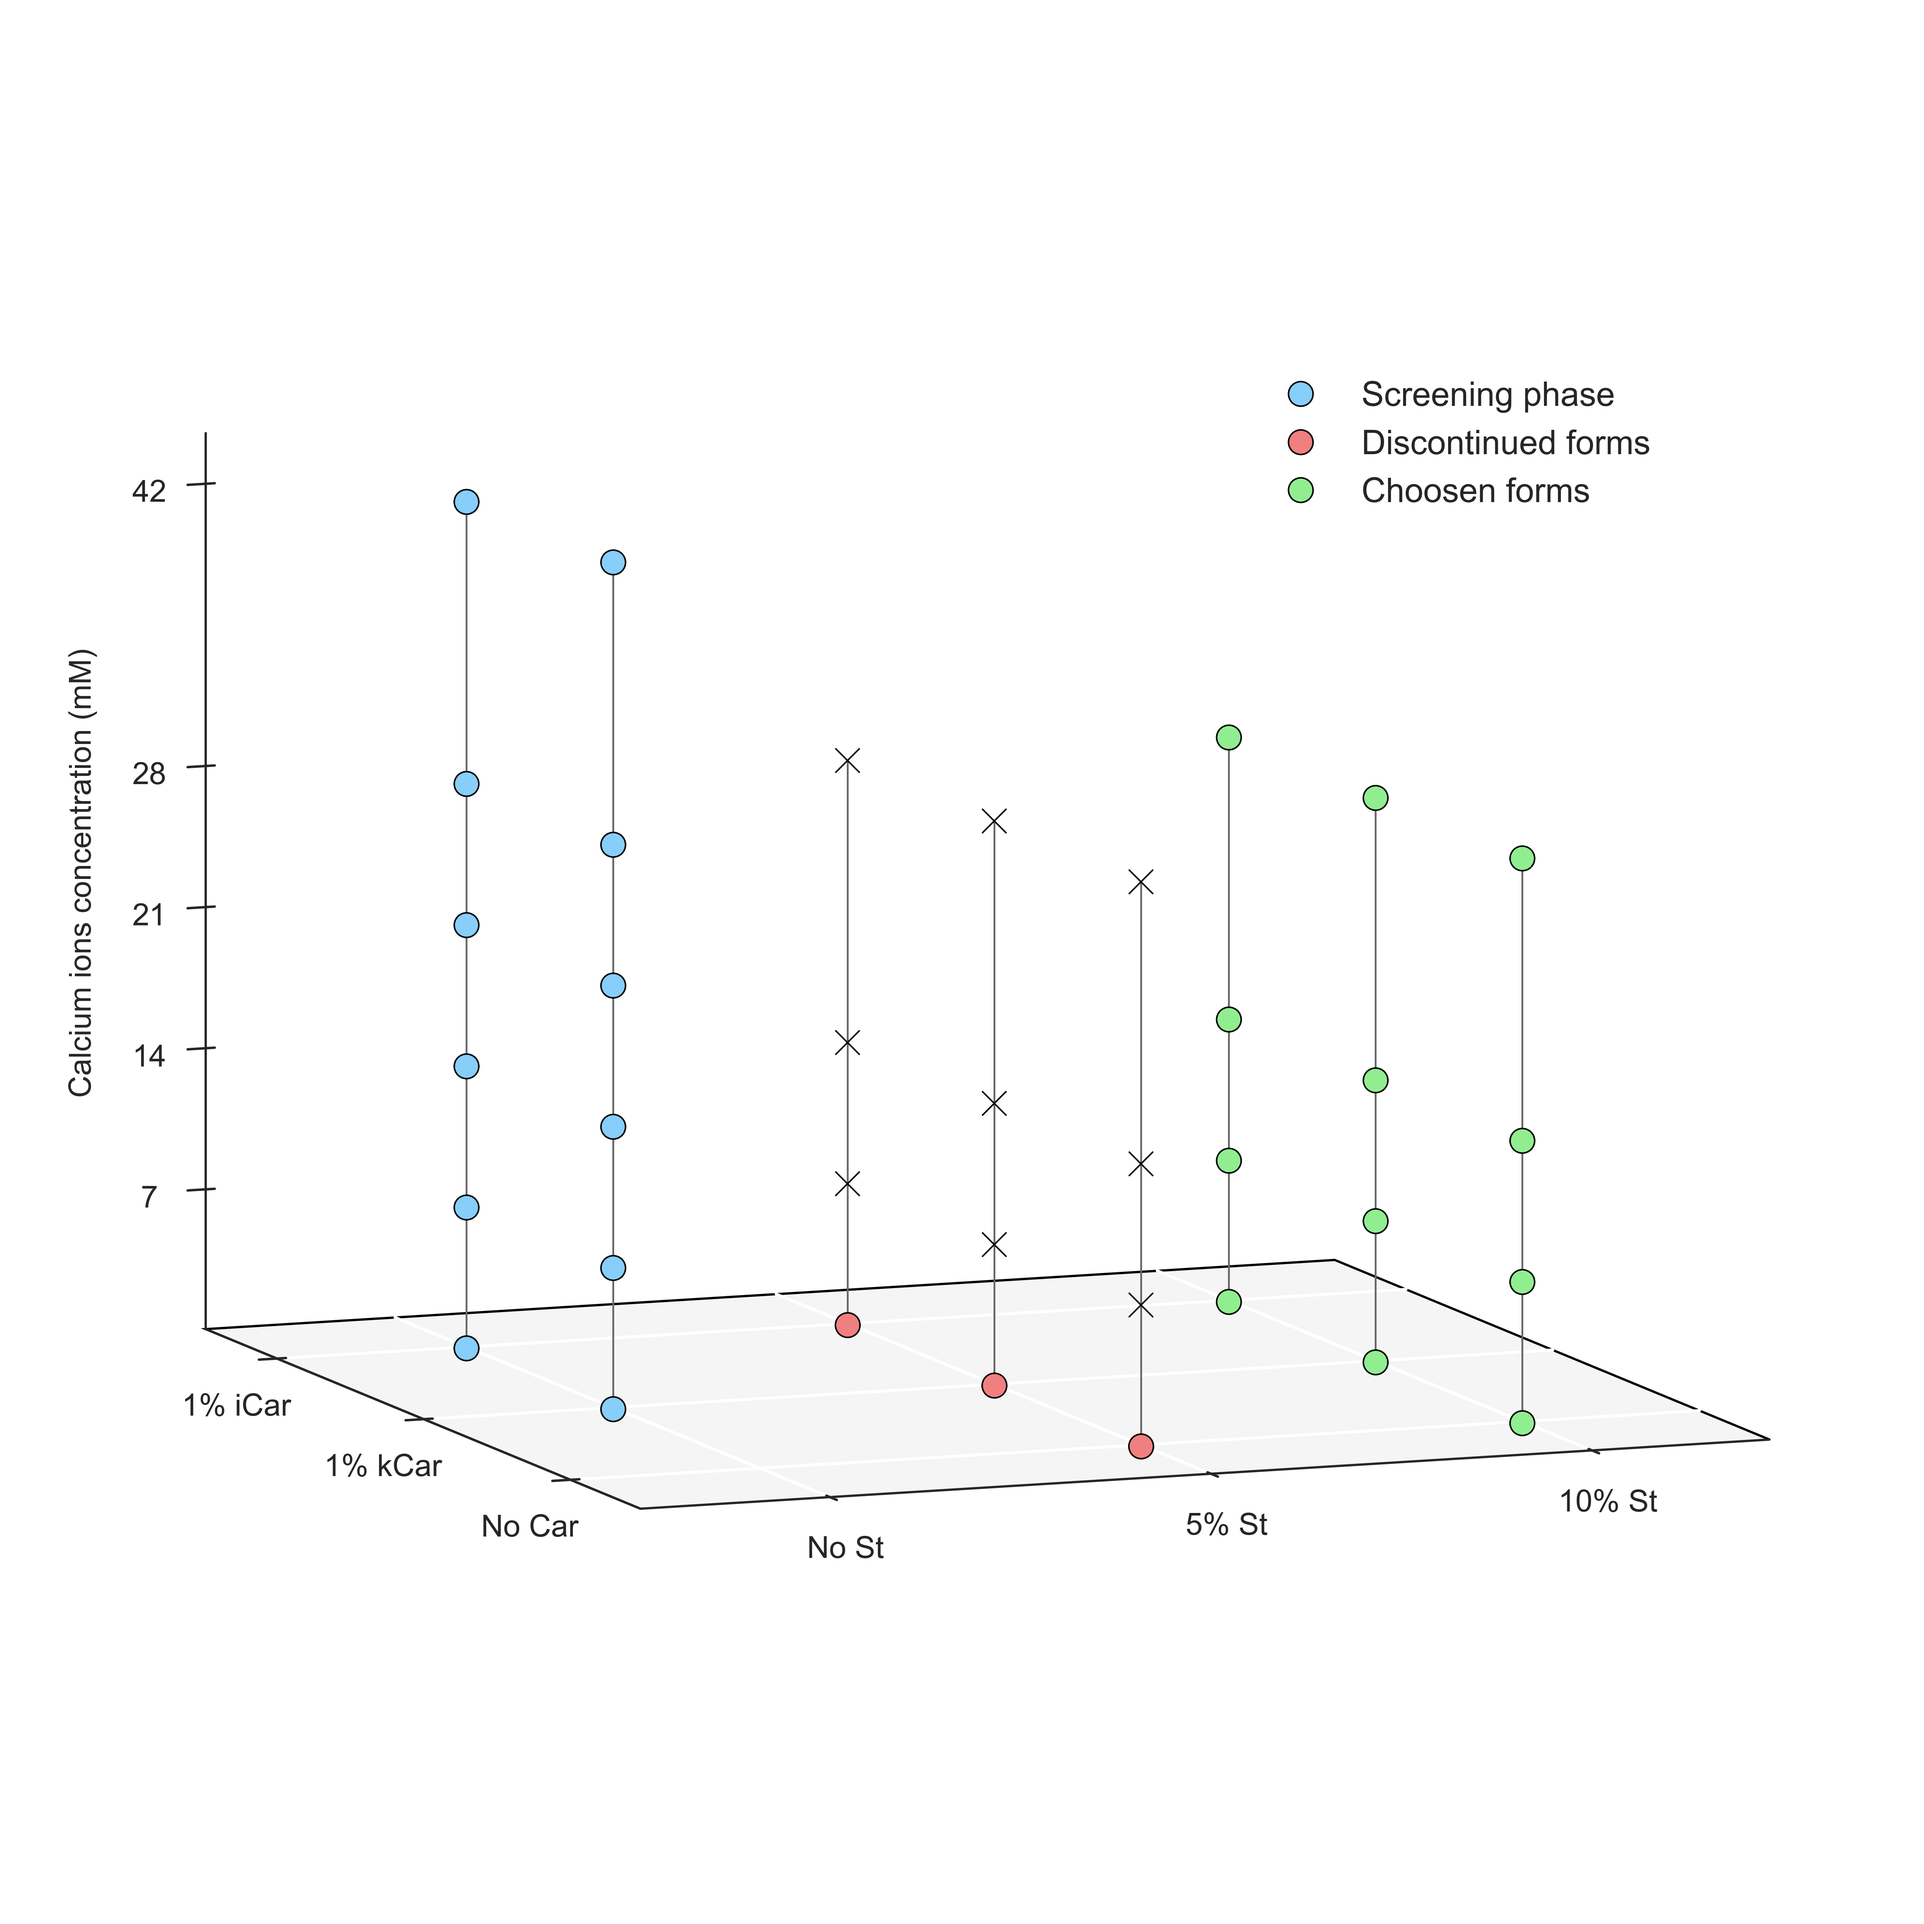
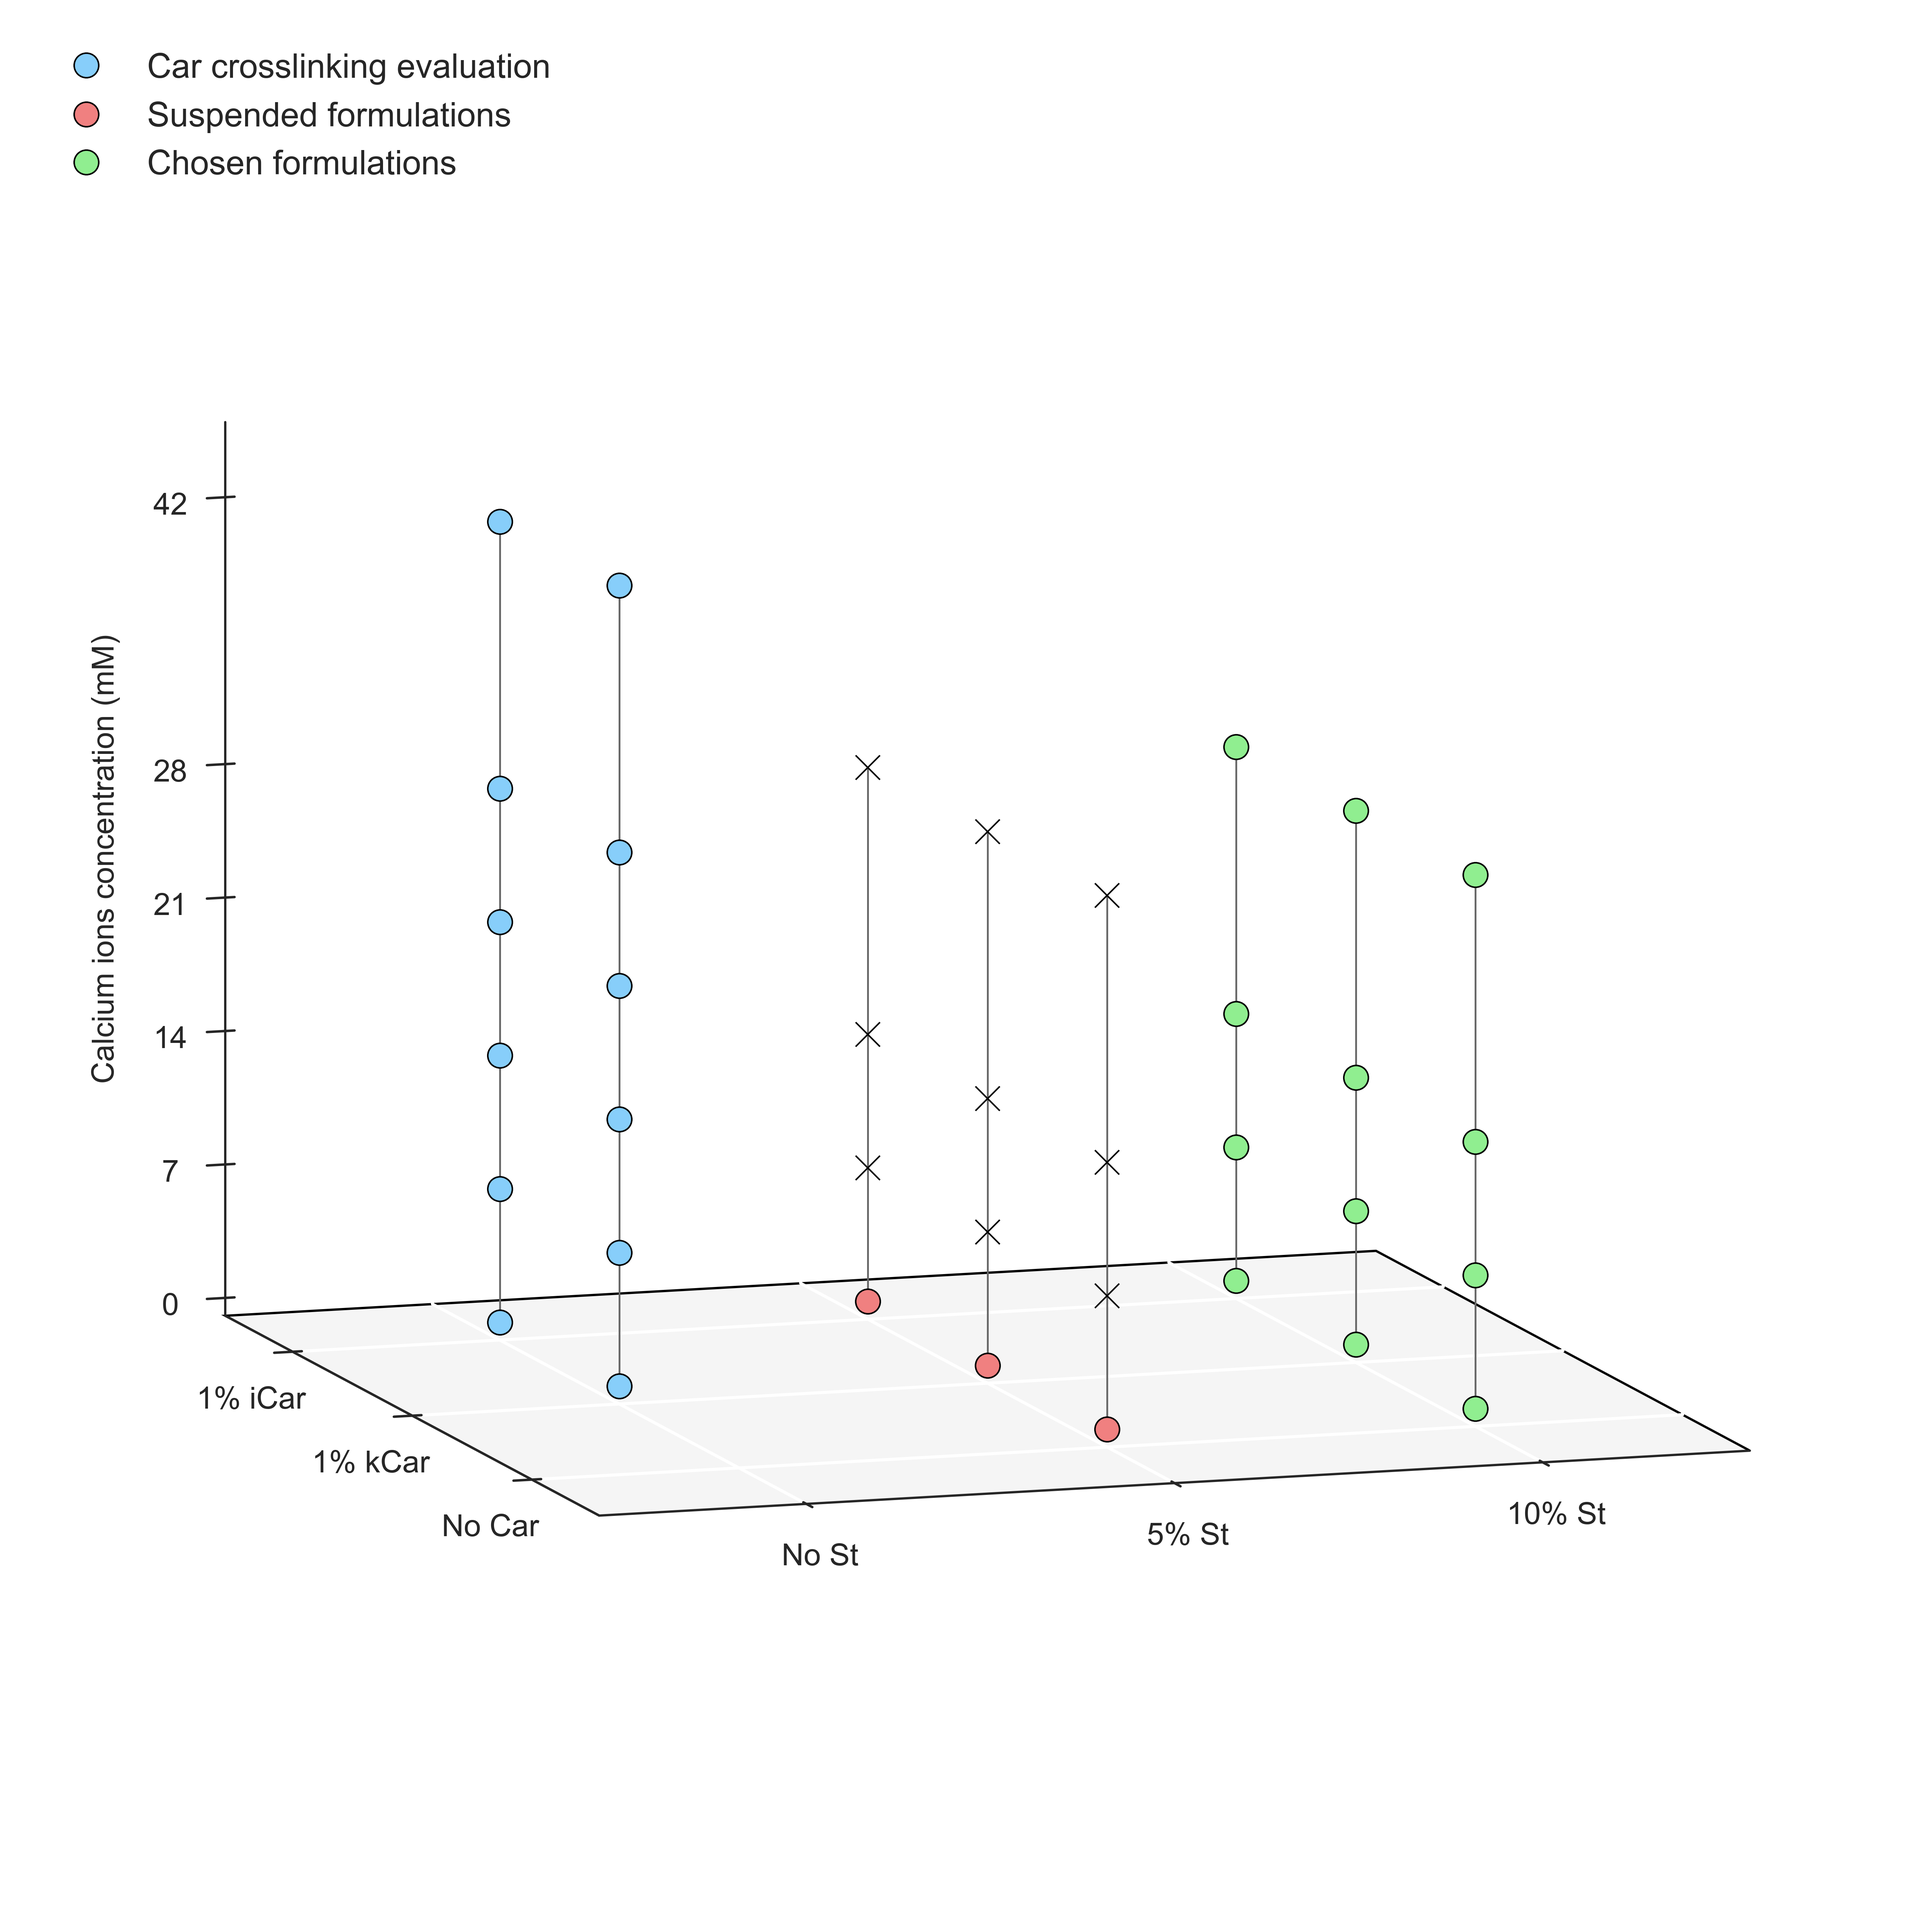
updated formulations

diff --git a/custom plots/SamplesFormulations-Prop.py b/custom plots/SamplesFormulations-Prop.py
@@ -28,12 +28,13 @@ def fonts(folder_path, small=10, medium=12):  # To config different fonts but it
 
 def plotFormulas3D(
         axes, formulas, legend, axWidth=0.75, gridColor='w',
-        markerColor='crimson', markerStyle='o', lineColor='dimgrey',
-        paneColor='whitesmoke', edgeColor='w',
+        markerColor='crimson', markerStyle='o', markerSize=8, edgeWidth=.5, edgeColor='k',
+        lineColor='dimgrey', paneColor='whitesmoke', paneEdgeColor='w',
 ):
     def configPlot():
-        axes.set_proj_type('ortho')
-        axes.view_init(elev=10, azim=-18, roll=0)
+        # axes.set_proj_type('ortho')
+        axes.view_init(elev=9, azim=-130, roll=0)
+        axes.set_box_aspect([1., 1.45, 1.5])
 
         for axis in axes.xaxis, axes.yaxis, axes.zaxis:
             axis._axinfo['grid'].update({
@@ -41,30 +42,31 @@ def plotFormulas3D(
                 'linewidth': 1,
                 'linestyle': '-'})
             axis.set_label_position('lower'), axis.set_ticks_position('lower')
-            axis.set_pane_color(paneColor), axis.pane.set_edgecolor(edgeColor), axis.pane.set_linewidth(axWidth)
+            axis.set_pane_color(paneColor), axis.pane.set_edgecolor(paneEdgeColor), axis.pane.set_linewidth(axWidth)
         axes.zaxis.pane.set_edgecolor('k')
+        axes.zaxis.set_label_position('upper'), axes.zaxis.set_ticks_position('upper')
 
         # x axis
         axes.set_xlabel('')
         axes.xaxis.line.set_linewidth(axWidth)
         axes.set_xlim([-0.5, 2.5])
         axes.set_xticks([0, 1, 2])
-        axes.set_xticklabels(['No Car', '1% kCar', '1% iCar'])
-        ax.invert_xaxis()
+        axes.set_xticklabels(['No St', '5% St', '10% St'])
         axes.xaxis.pane.fill = False
 
         # y axis
         axes.set_ylabel('')
         axes.yaxis.line.set_linewidth(axWidth)
-        axes.set_ylim([-.5, 2.5])
-        axes.set_yticks([0, 1, 2])
-        axes.set_yticklabels(['No St', '5% St', '10% St'])
+        axes.set_ylim([-1, 5])
+        axes.set_yticks([0, 1, 2, 3, 4])
+        axes.set_yticklabels(['No Car', '0.5% kCar', '0.5% iCar', '1% kCar', '1% iCar'])
+        # ax.invert_xaxis()
         axes.yaxis.pane.fill = False
 
         # z axis
         axes.set_zlabel(f'Calcium ions concentration (mM)')
         axes.zaxis.line.set_linewidth(axWidth)
-        axes.set_zlim([0, 45])
+        axes.set_zlim([1, 45])
         axes.set_zticks([0, 7, 14, 21, 28, 42])
         axes.set_zticklabels(['0', '7', '14', '21', '28', '42'])
 
@@ -79,14 +81,14 @@ def plotFormulas3D(
 
     configPlot()
     for formulation in formulas:
-        car, starch, cacl2 = formulation
-        axes.plot(car, starch, cacl2,
+        carWeight, carType, cacl2 = formulation
+        axes.plot(carType, carWeight, cacl2,
                   c=markerColor, marker=markerStyle,
-                  alpha=1, ms=8, mew=.5, mec='k', ls='',
+                  alpha=1, ms=markerSize, mew=edgeWidth, mec=edgeColor, ls='',
                   label='' if formulation != formulas[-1] else legend,
                   zorder=2)
 
-        axes.plot([car, car], [starch, starch], [0, cacl2 - 0.06],
+        axes.plot([carType, carType], [carWeight, carWeight], [0, cacl2 - 0.06],
                   color=lineColor, linestyle='-', alpha=1, lw=.6,
                   zorder=1)
     legendLabel()
@@ -125,49 +127,52 @@ def plot2D(
     #     label=f'{sampleName}', zorder=3)
 
 
-# [Car, St, CaCl2]
-finalForms = [
-    [0, 2, 0], [0, 2, 7], [0, 2, 14], [0, 2, 28],  # St
+# [Car type, Starch, CaCl2]
+
+fivePct = [
+    [0, 1, 7], [0, 1, 14], [0, 1, 28],
+    [3, 1, 7], [3, 1, 14], [3, 1, 28],
+    [4, 1, 7], [4, 1, 14], [4, 1, 28]]
+
+propForms = [
     [1, 2, 0], [1, 2, 7], [1, 2, 14], [1, 2, 28],  # St + kappaCar
     [2, 2, 0], [2, 2, 7], [2, 2, 14], [2, 2, 28]]  # St + iotaCar
 
-fivePct = [
-    [0, 1, 7], [0, 1, 14], [0, 1, 28],  # St
-    [1, 1, 7], [1, 1, 14], [1, 1, 28],  # St + kappaCar
-    [2, 1, 7], [2, 1, 14], [2, 1, 28]]  # St + iotaCar
-
-noCaFivePct = [
-    [0, 1, 0],  # St
-    [1, 1, 0],  # St + kappaCar
-    [2, 1, 0]]  # St + iotaCar
-
-cars = [
-    [1, 0, 0], [1, 0, 7], [1, 0, 14], [1, 0, 21], [1, 0, 28], [1, 0, 42],  # St + kappaCar
-    [2, 0, 0], [2, 0, 7], [2, 0, 14], [2, 0, 21], [2, 0, 28], [2, 0, 42]]  # St + iotaCar
+doneForms = [
+    [0, 1, 0], [3, 1, 0], [4, 1, 0],
+    [0, 2, 0], [0, 2, 7], [0, 2, 14], [0, 2, 28],
+    [3, 2, 0], [3, 2, 7], [3, 2, 14], [3, 2, 28],
+    [4, 2, 0], [4, 2, 7], [4, 2, 14], [4, 2, 28],
+    [3, 0, 0], [3, 0, 7], [3, 0, 14], [3, 0, 21], [3, 0, 28], [3, 0, 42],
+    [4, 0, 0], [4, 0, 7], [4, 0, 14], [4, 0, 21], [4, 0, 28], [4, 0, 42],]
 
 plt.style.use('seaborn-v0_8-ticks')
-fig = plt.figure(figsize=(8.8, 9), constrained_layout=False)
+fig = plt.figure(figsize=(11, 9), constrained_layout=False)
 fig.suptitle('')
 
 ax = fig.add_subplot(111, projection='3d')
-fig.tight_layout()
 
-
-plotFormulas3D(
-    ax, cars, legend='Car crosslinking evaluation',
-    markerColor='lightskyblue')
+# plotFormulas3D(
+#     ax, screen, legend='Car crosslinking evaluation',
+#     markerColor='lightskyblue')
 
 plotFormulas3D(
-    ax, noCaFivePct, legend='Suspended formulations',
-    markerColor='lightcoral')
+    ax, fivePct, legend='Suspended',
+    edgeColor='tomato', markerStyle='x',
+    markerSize=9, edgeWidth='1.3')
 plotFormulas3D(
-    ax, fivePct, legend='',
-    markerColor='lightcoral', markerStyle='x')
-
-plotFormulas3D(
-    ax, finalForms, legend='Chosen formulations',
+    ax, doneForms, legend='Done',
     markerColor='lightgreen')
+plotFormulas3D(
+    ax, propForms, legend='Proposed',
+    markerColor='mediumslateblue')
 
-filename = 'Hydrogels-Formulations-Plot-NEW'
+
+plt.subplots_adjust(
+    hspace=0, wspace=0.120,
+    top=1, bottom=0,
+    left=0, right=0.91)
+
+filename = 'Hydrogels-Formulations-Plot-Proposition'
 plt.show()
 fig.savefig(f'{filename}.png', dpi=600, bbox_inches='tight')
